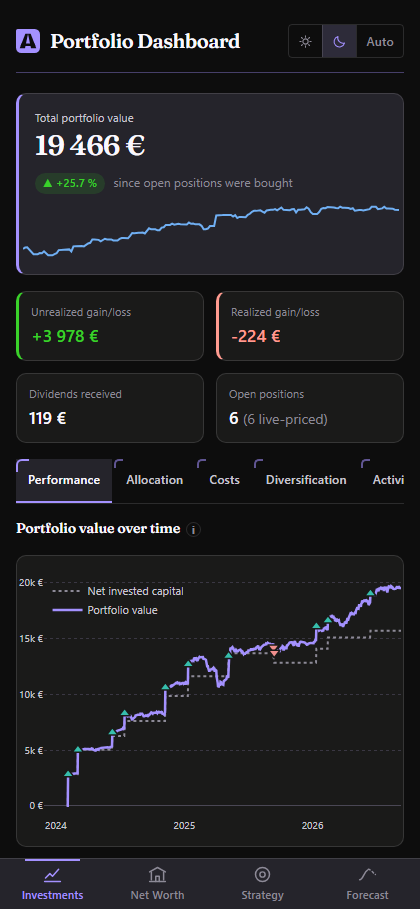
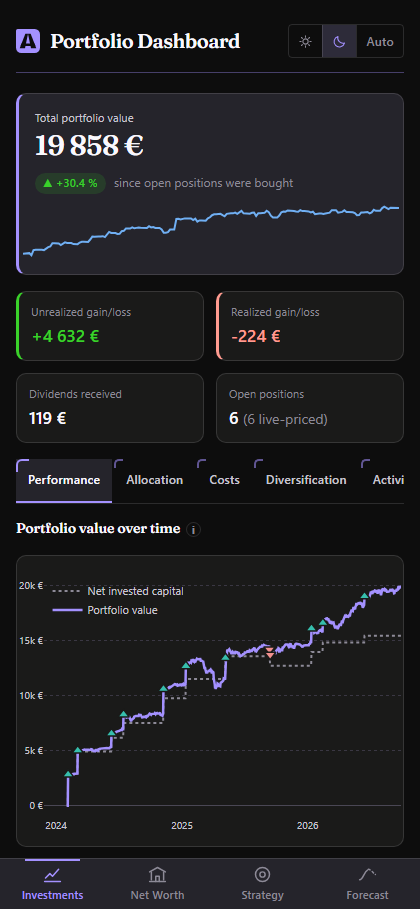
Fix four demo-data bugs that skewed the figures
Found while preparing a Power BI rebuild that has to reconcile, to the
cent, against this app. Every one of them would have made the two
disagree for the wrong reason.

- Trade Republic deposits landed in `fee`. The generator's row() takes its
  arguments by position, and the four TRANSFER_INBOUND calls passed one
  empty string too many: 6 400 € of invented fees and four deposits with
  no amount. Deposits now read 17 550 €, not 11 150 €.
- Apple and Coca-Cola were bought at their USD close labelled EUR. Trade
  Republic settles in euros, so they now carry that day's close converted
  at the day's rate (159.75, 56.85, 215.13), taken from the same yfinance
  EUR series the app values them with. Cost of open positions drops by
  261.80 €, and their unrealized gain rises by as much.
- Fortuneo leaves the fee cell empty on deposits and dividends. The NaN
  reached positions.py, where `fee or 0.0` lets it through — NaN is
  truthy — and blanked Sanofi's whole fee total: 18.60 € shown instead of
  27.30 €. Filled at the importer, the way trade_republic.py already did.
  This one was never demo-only: it hits real Fortuneo exports too.
- normalize.asset_key() had the same NaN blind spot and keyed cash rows as
  an asset literally called "nan". They fall back to "UNKNOWN" now, as the
  function always intended.

And one that could not show on the demo: performance.py negated sell
quantities without abs(), so a Trade Republic sell exported with a
[…]

diff --git a/scripts/generate_demo_data.py b/scripts/generate_demo_data.py
@@ -91,22 +91,24 @@ def write_trade_republic_csv():
     # what keeps unrealized gains/losses and the "avg. monthly return" metric
     # realistic instead of an outlier like a World ETF "gaining" hundreds of
     # percent because a made-up purchase price happened to be far below today's
-    # actual price.
+    # actual price. Trade Republic settles every order in euros, US stocks
+    # included, so Apple and Coca-Cola carry their close converted to EUR at
+    # that day's rate — their USD close, labelled EUR, overstated the cost.
     rows = [
-        row("demo-0001", "2024-03-01", "TRANSFER_INBOUND", "transfer", "", "", "", "", "", "", "2000.00"),
-        row("demo-0002", "2024-03-04", "BUY", "trading", "stock", TR_APPLE[1], TR_APPLE[0], "6", "173.21", "-1039.26", 1.00),
+        row("demo-0001", "2024-03-01", "TRANSFER_INBOUND", "transfer", "", "", "", "", "", "2000.00"),
+        row("demo-0002", "2024-03-04", "BUY", "trading", "stock", TR_APPLE[1], TR_APPLE[0], "6", "159.75", "-958.50", 1.00),
         row("demo-0003", "2024-03-04", "BUY", "trading", "etf", TR_VWCE[1], TR_VWCE[0], "10", "114.94", "-1149.40", 1.00),
-        row("demo-0004", "2024-07-10", "TRANSFER_INBOUND", "transfer", "", "", "", "", "", "", "1500.00"),
+        row("demo-0004", "2024-07-10", "TRANSFER_INBOUND", "transfer", "", "", "", "", "", "1500.00"),
         row("demo-0005", "2024-07-15", "BUY", "trading", "stock", TR_LVMH[1], TR_LVMH[0], "2", "671.72", "-1343.44", 1.00),
         row("demo-0006", "2024-09-20", "DIVIDEND", "trading", "stock", TR_APPLE[1], TR_APPLE[0], "6", "", "1.50"),
-        row("demo-0007", "2025-01-08", "TRANSFER_INBOUND", "transfer", "", "", "", "", "", "", "1800.00"),
-        row("demo-0008", "2025-01-12", "BUY", "trading", "stock", TR_KO[1], TR_KO[0], "12", "58.54", "-702.48", 1.00),
+        row("demo-0007", "2025-01-08", "TRANSFER_INBOUND", "transfer", "", "", "", "", "", "1800.00"),
+        row("demo-0008", "2025-01-12", "BUY", "trading", "stock", TR_KO[1], TR_KO[0], "12", "56.85", "-682.20", 1.00),
         row("demo-0009", "2025-01-12", "BUY", "trading", "etf", TR_VWCE[1], TR_VWCE[0], "8", "133.72", "-1069.76", 1.00),
         row("demo-0010", "2025-06-05", "DIVIDEND", "trading", "stock", TR_KO[1], TR_KO[0], "12", "", "6.12", 0, 0.92),
         row("demo-0011", "2025-09-14", "SELL", "trading", "stock", TR_LVMH[1], TR_LVMH[0], "1", "478.65", "478.65", 1.00),
         row("demo-0012", "2025-11-02", "DIVIDEND", "trading", "stock", TR_APPLE[1], TR_APPLE[0], "6", "", "1.56"),
-        row("demo-0013", "2026-02-10", "TRANSFER_INBOUND", "transfer", "", "", "", "", "", "", "1100.00"),
-        row("demo-0014", "2026-02-14", "BUY", "trading", "stock", TR_APPLE[1], TR_APPLE[0], "4", "255.32", "-1021.28", 1.00),
+        row("demo-0013", "2026-02-10", "TRANSFER_INBOUND", "transfer", "", "", "", "", "", "1100.00"),
+        row("demo-0014", "2026-02-14", "BUY", "trading", "stock", TR_APPLE[1], TR_APPLE[0], "4", "215.13", "-860.52", 1.00),
         row("demo-0015", "2026-06-20", "DIVIDEND", "trading", "stock", TR_KO[1], TR_KO[0], "12", "", "6.36", 0, 0.95),
         row("demo-0016", "2026-07-05", "DIVIDEND", "trading", "stock", TR_LVMH[1], TR_LVMH[0], "1", "", "13.00"),
     ]

diff --git a/importers/fortuneo.py b/importers/fortuneo.py
@@ -63,7 +63,10 @@ def load(data_dir: str) -> pd.DataFrame:
     out["isin"] = None
     out["quantity"] = pd.to_numeric(raw["Qté"], errors="coerce")
     out["price"] = pd.to_numeric(raw["Prix d'éxé"], errors="coerce")
-    out["fee"] = pd.to_numeric(raw["Courtage/Prélèvement"], errors="coerce").abs()
+    # Deposits and dividends leave the fee cell empty: without fillna the NaN
+    # reaches positions.py, where `fee or 0.0` lets it through (NaN is truthy)
+    # and blanks the asset's whole fee total.
+    out["fee"] = pd.to_numeric(raw["Courtage/Prélèvement"], errors="coerce").abs().fillna(0.0)
     out["tax"] = 0.0
     out["amount"] = pd.to_numeric(raw["Montant net"], errors="coerce")
     out["currency"] = raw["Devise"].str.strip()

diff --git a/importers/normalize.py b/importers/normalize.py
@@ -13,10 +13,16 @@ COLUMNS = [
 
 
 def asset_key(row) -> str:
-    """An asset's aggregation key: ISIN if known, otherwise its normalized name."""
-    if row.get("isin"):
-        return str(row["isin"])
-    return str(row.get("name") or "UNKNOWN").strip()
+    """An asset's aggregation key: ISIN if known, otherwise its normalized name.
+
+    Missing values arrive as None or NaN depending on the source, and NaN is
+    truthy: a plain `or` turned cash rows into an asset literally keyed "nan".
+    """
+    for field in ("isin", "name"):
+        value = row.get(field)
+        if pd.notna(value) and str(value).strip():
+            return str(value).strip()
+    return "UNKNOWN"
 
 
 def load_all(data_root: str) -> pd.DataFrame:

diff --git a/analytics/performance.py b/analytics/performance.py
@@ -30,8 +30,10 @@ def build_history(transactions: pd.DataFrame, positions_df: pd.DataFrame) -> pd.
 
     # --- Quantity held per asset over time ---
     trades = transactions[transactions["type"].isin(["BUY", "SELL"])].copy()
+    # abs() for the same reason as positions.build_positions: Trade Republic
+    # exports sells with an already-negative quantity.
     trades["signed_qty"] = trades.apply(
-        lambda r: r["quantity"] if r["type"] == "BUY" else -r["quantity"], axis=1
+        lambda r: abs(r["quantity"]) if r["type"] == "BUY" else -abs(r["quantity"]), axis=1
     )
     qty_by_asset = {}
     for asset_key, grp in trades.groupby("asset_key"):
